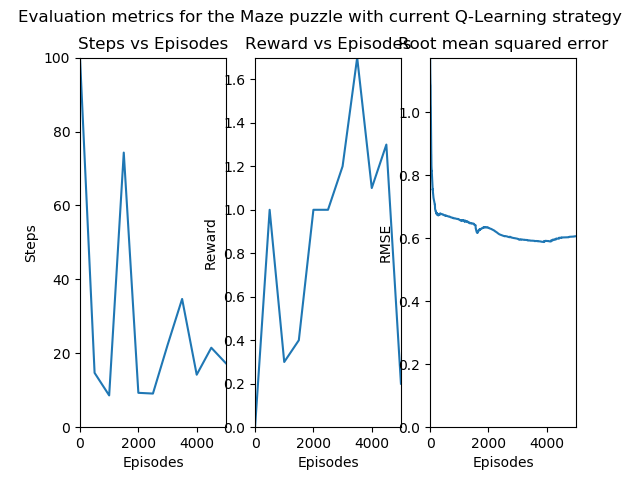
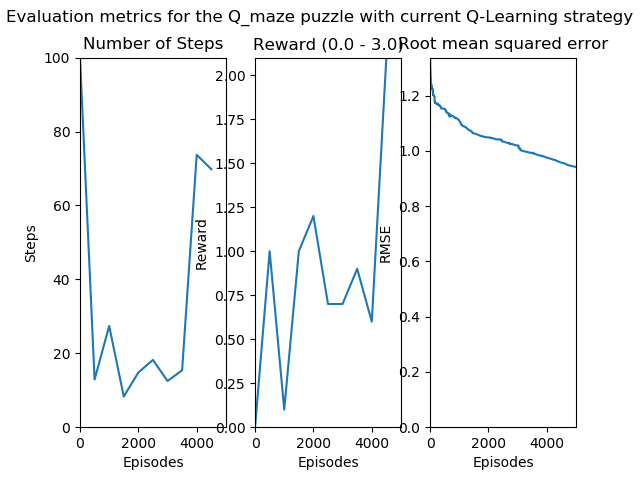
Implemented Value iteration, and created optimal Q-table

diff --git a/VI.py b/VI.py
@@ -1,0 +1,140 @@
+from QL import evaluation_plot
+import numpy as np
+import matplotlib.pyplot as plt
+import pprint
+import sys
+from maze import Maze
+import argparse
+if "../" not in sys.path:
+  sys.path.append("../") 
+# path = "http://localhost:8889/files/lib"
+
+
+# from lib.envs.gridworld import GridworldEnv
+
+
+pp = pprint.PrettyPrinter(indent=2)
+# env = GridworldEnv()
+
+# Taken from Policy Evaluation Exercise!
+
+class MDP(Maze):
+    '''
+    Inherits all the attributes from the maze
+    '''
+    def __init__(self):
+        super().__init__()
+        # self.LEARNING_RATE = 0.1
+
+def value_iteration(env, theta=0.0001, discount_factor=1.0):
+    """
+    Value Iteration Algorithm.
+    
+    Args:
+        env: Maze class, which is inherited from the Maze function that was given for the assignment.
+        Importantly, it has the following attributes:
+            env.snum is a number of states in the environment. 
+            env.anum is a number of actions in the environment.
+        And the following function which is utilized:
+            env.step is a list of transition tuples (reward, next_state, done)
+        theta: We stop evaluation once our value function change is less than theta for all states.
+        discount_factor: Gamma discount factor.
+
+      
+    Returns:
+    A tuple (policy, V, Q_table) of the optimal policy, optimal value function, and optimal action-value table
+
+    """
+    
+
+    V = np.random.random((env.snum, )) # Arbitrarily initialize V(s)
+    V[-1] = 0 #V(terminal is zero)
+    policy = np.ones([env.snum, env.anum])
+    
+    
+    def one_step_lookahead(state, V):
+        """
+        Helper function to calculate the value for all action in a given state.
+        
+        Args:
+            state: The state to consider (int)
+            V: The value to use as an estimator, Vector of length env.snum
+        
+        Returns:
+            A vector of length env.anum containing the expected value of each action.
+        """
+        A = np.zeros(env.anum)
+        for a in range(env.anum):
+            reward, next_state, _  = env.step(state,a)
+            A[a] += (reward + discount_factor * V[next_state])
+        return A
+    
+    loop = 0
+    
+
+
+    # Implement!
+    while True:
+        delta = 0
+        for state in range(env.snum):
+            v = V[state]
+            A = one_step_lookahead(state, V)
+            
+            V[state] = np.max(A)
+            
+            print(f'state {state} delta {delta} V[state] {V[state]} Action {A}')
+#             print(V[state])
+            delta = np.max((delta, v - V[state]))
+        # print(delta)
+        print(f'Loop: {loop}, delta: {delta}')
+        if delta < theta:
+            break
+        loop += 1
+    # Fill in the policy
+    
+    A = np.zeros(env.anum)
+    # Does value iteration create an optimal Q-table?
+
+    Q_table = np.zeros((env.snum, env.anum))
+    for state in range(env.snum):
+        A = one_step_lookahead(state,V)
+        Q_table[state] = A
+        tmp = np.zeros(policy[state].shape)
+        idx = np.argmax(A)
+        tmp[idx] = 1
+        policy[state] = tmp
+    
+    
+    return policy, V, Q_table
+
+if __name__ == "__main__":
+    
+    
+    parser = argparse.ArgumentParser(
+        description='Choose the environment we are working with')
+    
+    parser.add_argument(
+
+        '--optimal', help = "Will run to create a Q-table that will be saved as an npy format. This is the optimal q-value that will be compared against", action = "store_true"
+
+    )
+    
+    args = parser.parse_args()
+    env = MDP()
+
+    policy, v, Q_table = value_iteration(env, theta=0.0001, discount_factor=1.0)
+    
+    print(policy)
+    print("")
+
+
+    print("Value Function:")
+    print(v)
+    print("")
+
+    print("Q-table:")
+    print(Q_table.shape)
+    print("")
+
+    if args.optimal:
+        np.save("Optimal/Maze/VI/Q_table.npy", Q_table)

diff --git a/QL.py b/QL.py
@@ -10,6 +10,9 @@ import matplotlib.pyplot as plt
 
 
 class MDP(Maze):
+    '''
+    Inherits all the attributes from the maze
+    '''
     def __init__(self):
         super().__init__()
         # self.LEARNING_RATE = 0.1
@@ -48,7 +51,8 @@ def train_maze(env, EPISODES, EPISODE_EVALUATION, EPSILON, LEARNING_RATE, findOp
     print(findOptimal)
 
     if findOptimal is False:
-        q_optimal = np.load('Q_maze.npy', allow_pickle = True)
+        # q_optimal = np.load('Q_maze.npy', allow_pickle = True)
+        q_optimal = np.load('Optimal/Maze/VI/Q_table.npy', allow_pickle = True)
     
     else:
 
@@ -315,9 +319,9 @@ if __name__ == "__main__":
         name = "Q_maze"
         EPISODES = 5000
 
-        EPISODE_EVALUATION = 200
+        EPISODE_EVALUATION = 500
         EPSILON = 0.10
-        LEARNING_RATE = 0.1
+        LEARNING_RATE = 0.10
         env = MDP()
         # for episode in EPISODES:
         if args.optimal:
